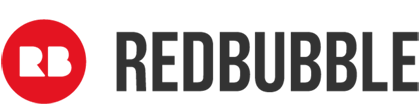
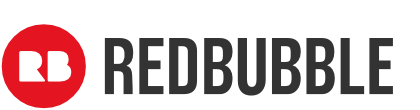
Minor fix pixelated Redbubble logotype

diff --git a/README.md b/README.md
@@ -29,9 +29,9 @@ gem 'bathysphere', '0.1.0' # see semver.org
 Credits
 -------
 
-[![Redbubble](doc/redbubble.png)][redbubble]
+[![](doc/redbubble.png)][redbubble]
 
-Bathyspere is maintained and funded by [Redbubble][redbubble].
+Bathysphere is maintained and funded by [Redbubble][redbubble].
 
   [redbubble]: https://www.redbubble.com
 
